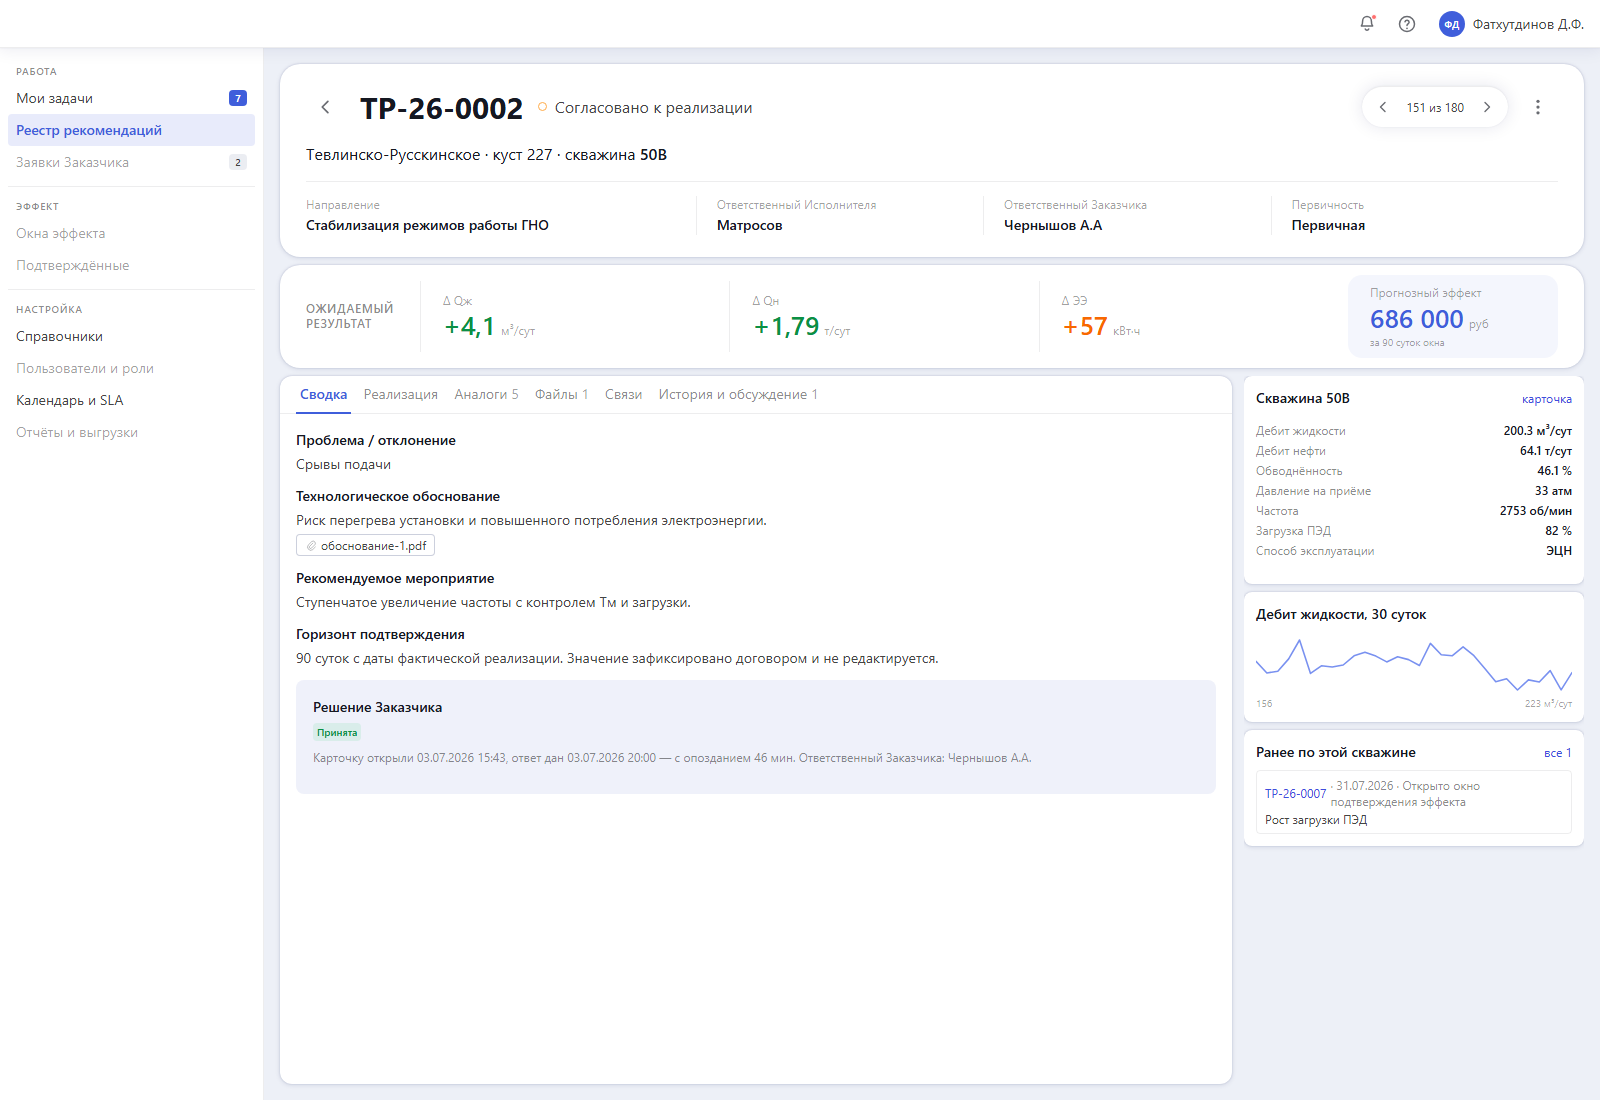
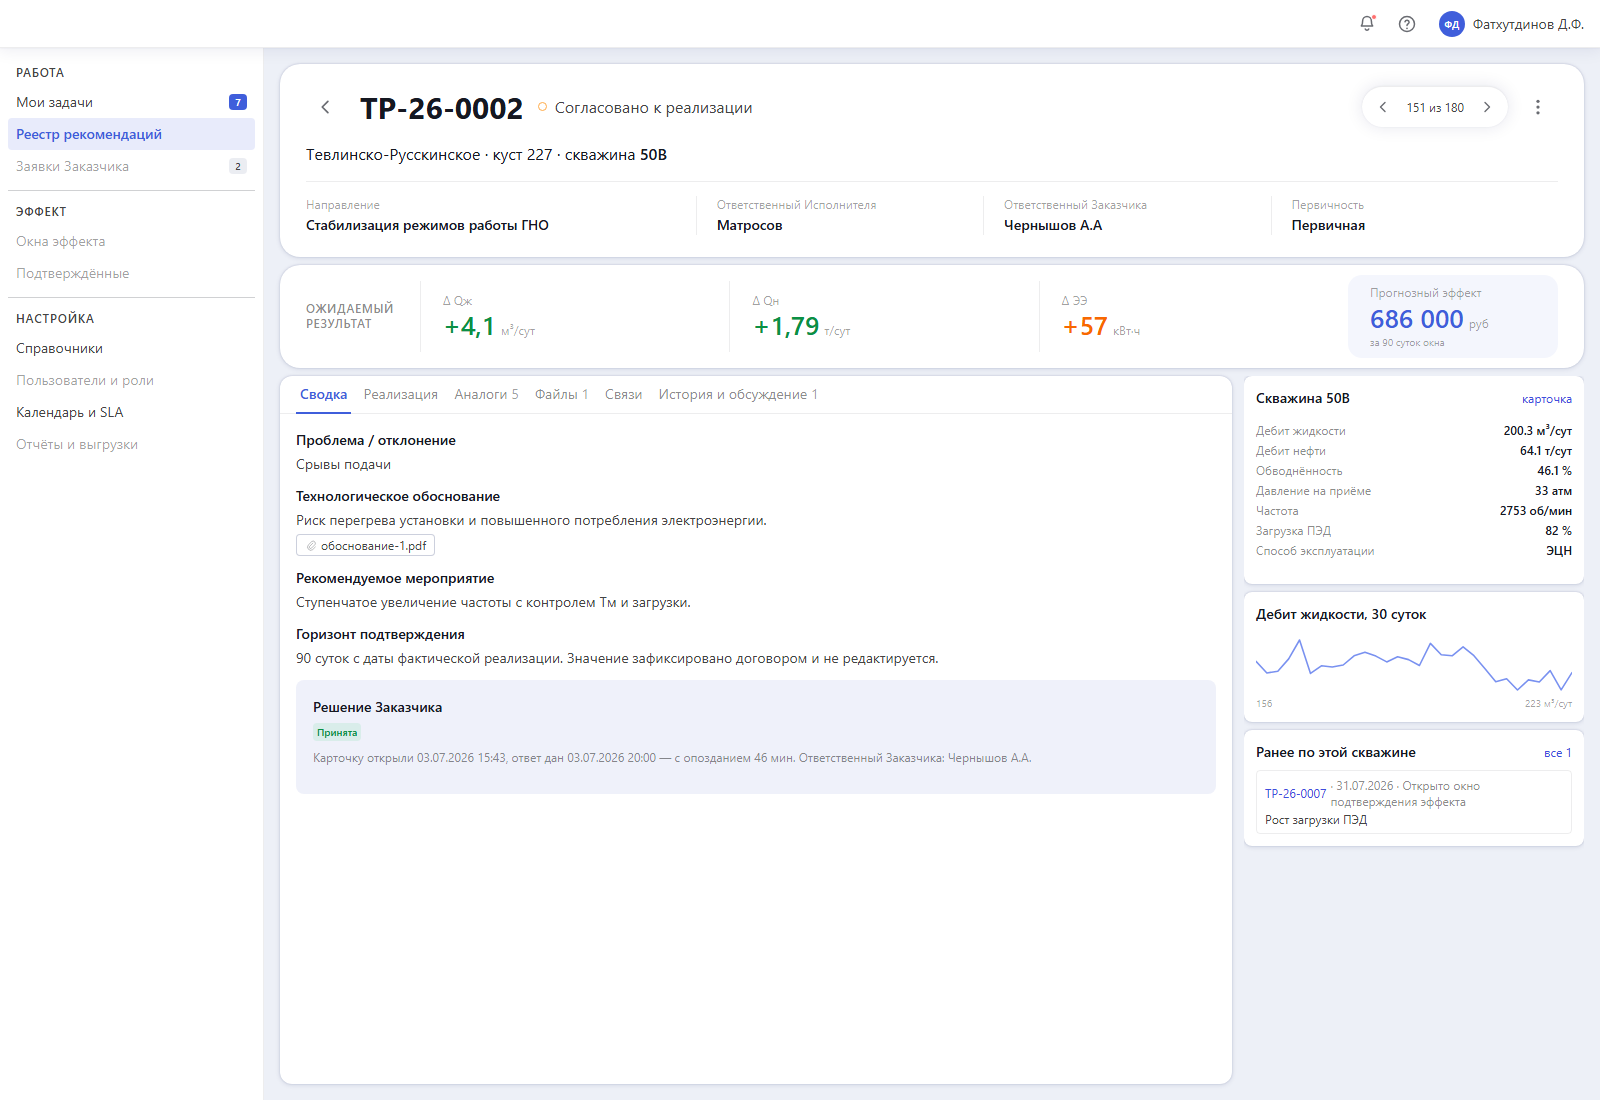
Заголовки групп меню заметнее: кегль текста, основной цвет, чёткая линия
Заголовки «Работа», «Эффект», «Настройка» и три класса справочников подняты
с капшена 10px до текстового 12px, цвет — второго уровня вместо третьего,
разделительная линия взята не облегчённая. Прописные и разрядка оставлены:
на этом кегле они держат заголовок как заголовок, а не как ещё один пункт.

Changed region(s): [[0.0, 0.1855, 0.0938, 0.4018], [0.0, 0.0618, 0.0938, 0.1545]]

diff --git a/макет/registry.css b/макет/registry.css
@@ -87,13 +87,13 @@ body.is-resizing { cursor: col-resize; user-select: none; }
    как деление. Отсюда цвет обычного текста, полужирное начертание и линия
    сверху: группа отделяется от предыдущей, а не просто подписывается. */
 .sidenav__section {
-  font: var(--font-weight-subtitle) var(--font-size-text-caption) / var(--line-height-text-caption) var(--font-family-text);
+  font: var(--font-weight-subtitle) var(--font-size-text-small) / var(--line-height-text-small) var(--font-family-text);
   letter-spacing: var(--letter-spacing-text-caption);
   text-transform: uppercase;
-  color: var(--text-tertiary);
-  padding: var(--group-padding-m) var(--item-padding-horizontal-s) var(--item-padding-vertical-xs);
+  color: var(--text-secondary);
+  padding: var(--group-padding-m) var(--item-padding-horizontal-s) var(--item-padding-vertical-s);
   margin-top: var(--group-gap-s);
-  border-top: 1px solid var(--border-divider-light);
+  border-top: 1px solid var(--border-divider);
 }
 /* У первой группы линии нет: делить сверху нечего. */
 .sidenav__section:first-child { margin-top: 0; padding-top: var(--group-padding-s); border-top: 0; }

diff --git a/макет/refs.css b/макет/refs.css
@@ -30,13 +30,13 @@
 /* Заголовок класса справочников набирается так же, как заголовки групп в
    боковом меню: это деление списка, а не сноска к нему. */
 .reflist__section {
-  font: var(--font-weight-subtitle) var(--font-size-text-caption) / var(--line-height-text-caption) var(--font-family-text);
+  font: var(--font-weight-subtitle) var(--font-size-text-small) / var(--line-height-text-small) var(--font-family-text);
   letter-spacing: var(--letter-spacing-text-caption);
   text-transform: uppercase;
-  color: var(--text-tertiary);
-  padding: var(--group-padding-m) var(--item-padding-horizontal-s) var(--item-padding-vertical-2xs);
+  color: var(--text-secondary);
+  padding: var(--group-padding-m) var(--item-padding-horizontal-s) var(--item-padding-vertical-xs);
   margin-top: var(--group-gap-s);
-  border-top: 1px solid var(--border-divider-light);
+  border-top: 1px solid var(--border-divider);
 }
 .reflist__section:first-child { margin-top: 0; padding-top: 0; border-top: 0; }
 
